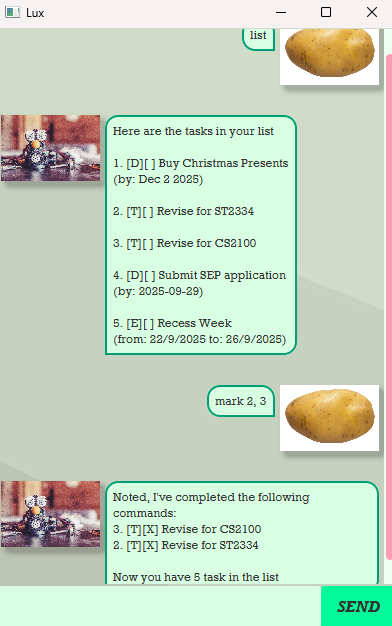
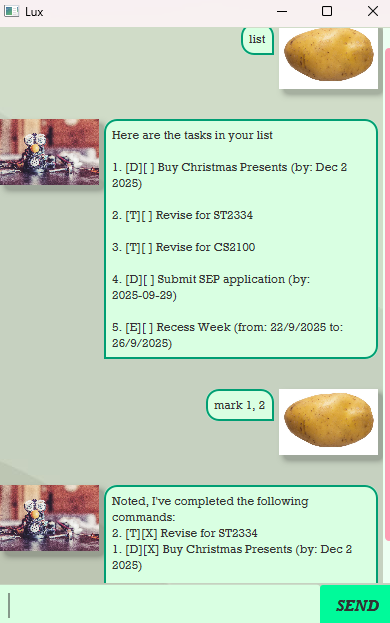
Fix not able to load data

Changed region(s): [[0.0, 0.0, 1.0, 1.0], [0.0, 0.0, 0.1231, 0.0305]]

diff --git a/src/main/java/lux/domain/Event.java b/src/main/java/lux/domain/Event.java
@@ -39,6 +39,6 @@ public class Event extends Task {
      */
     @Override
     public String toString() {
-        return "[E]" + super.toString() + "\n(from: " + start + " to: " + end + ")";
+        return "[E]" + super.toString() + " (from: " + start + " to: " + end + ")";
     }
 }

diff --git a/src/main/java/lux/domain/Deadline.java b/src/main/java/lux/domain/Deadline.java
@@ -36,6 +36,6 @@ public class Deadline extends Task {
      */
     @Override
     public String toString() {
-        return "[D]" + super.toString() + "\n(by: " + deadline + ")";
+        return "[D]" + super.toString() + " (by: " + deadline + ")";
     }
 }
